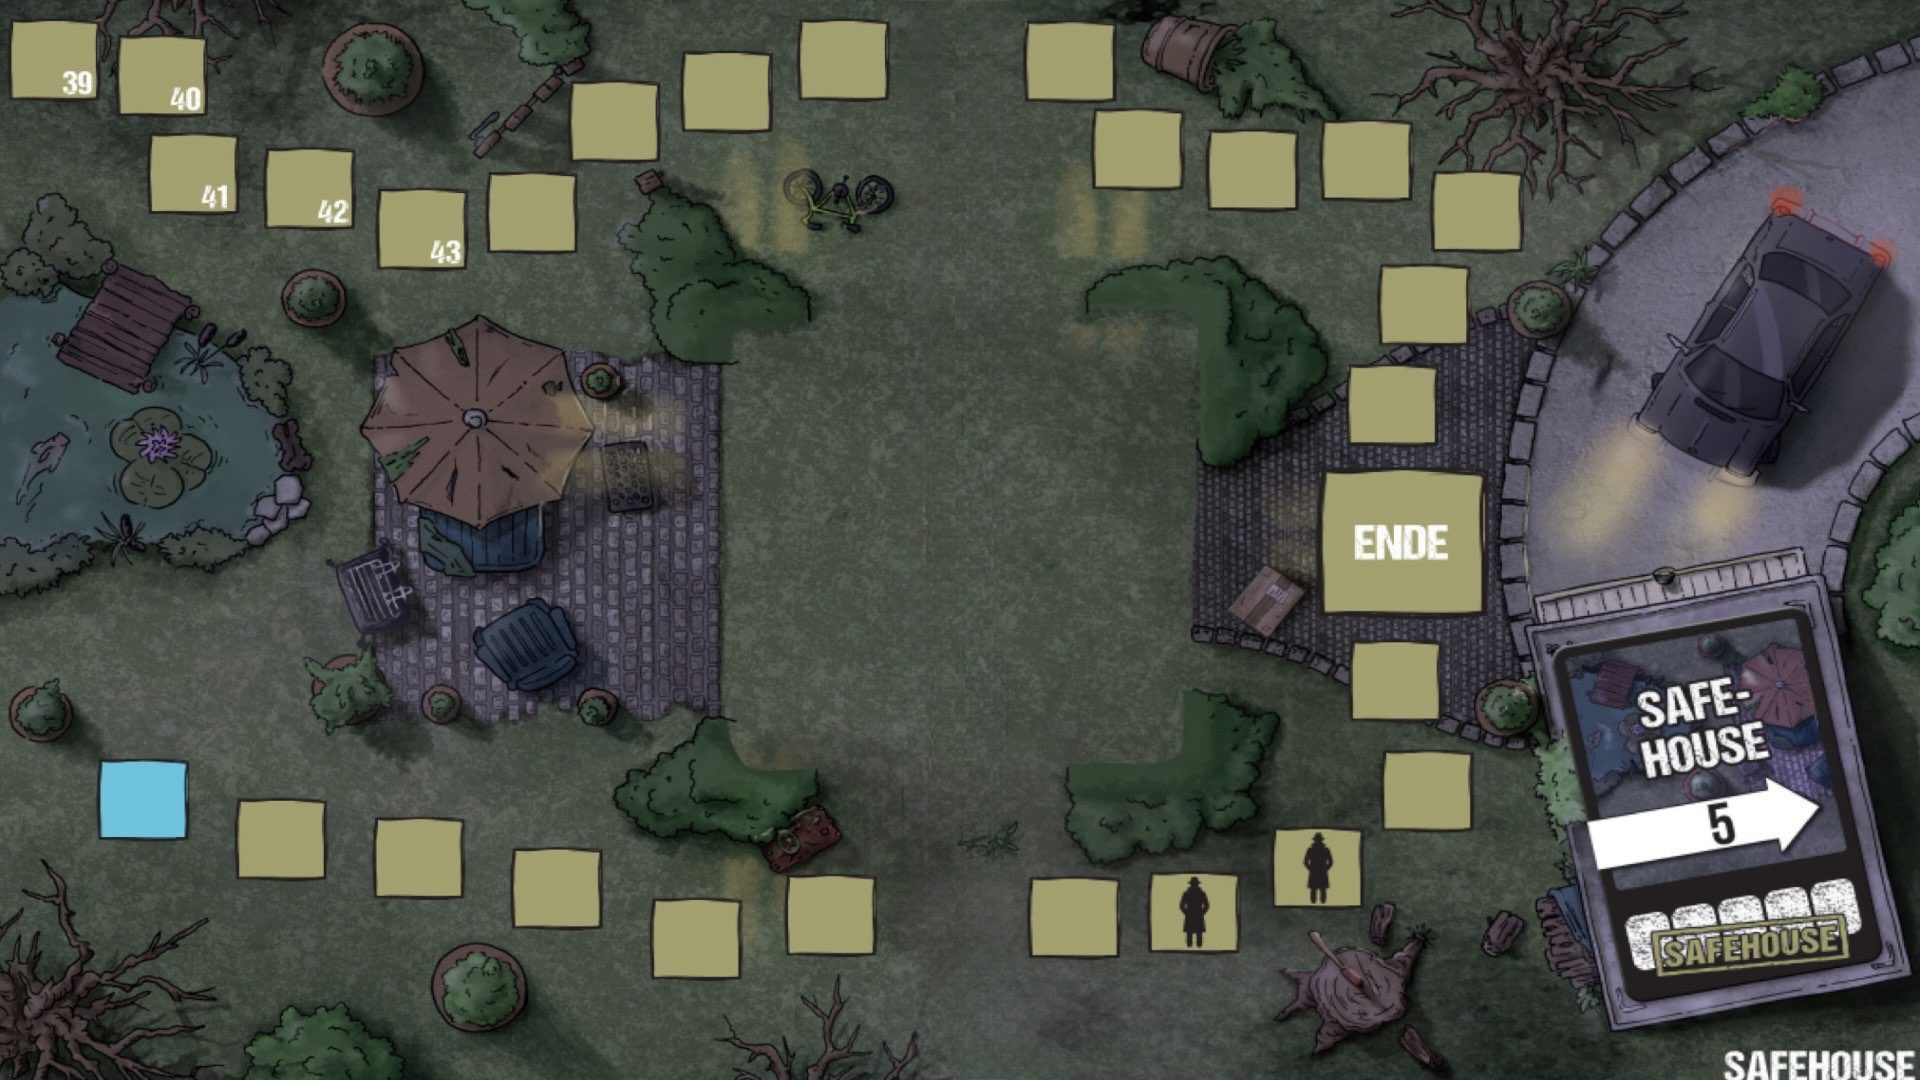
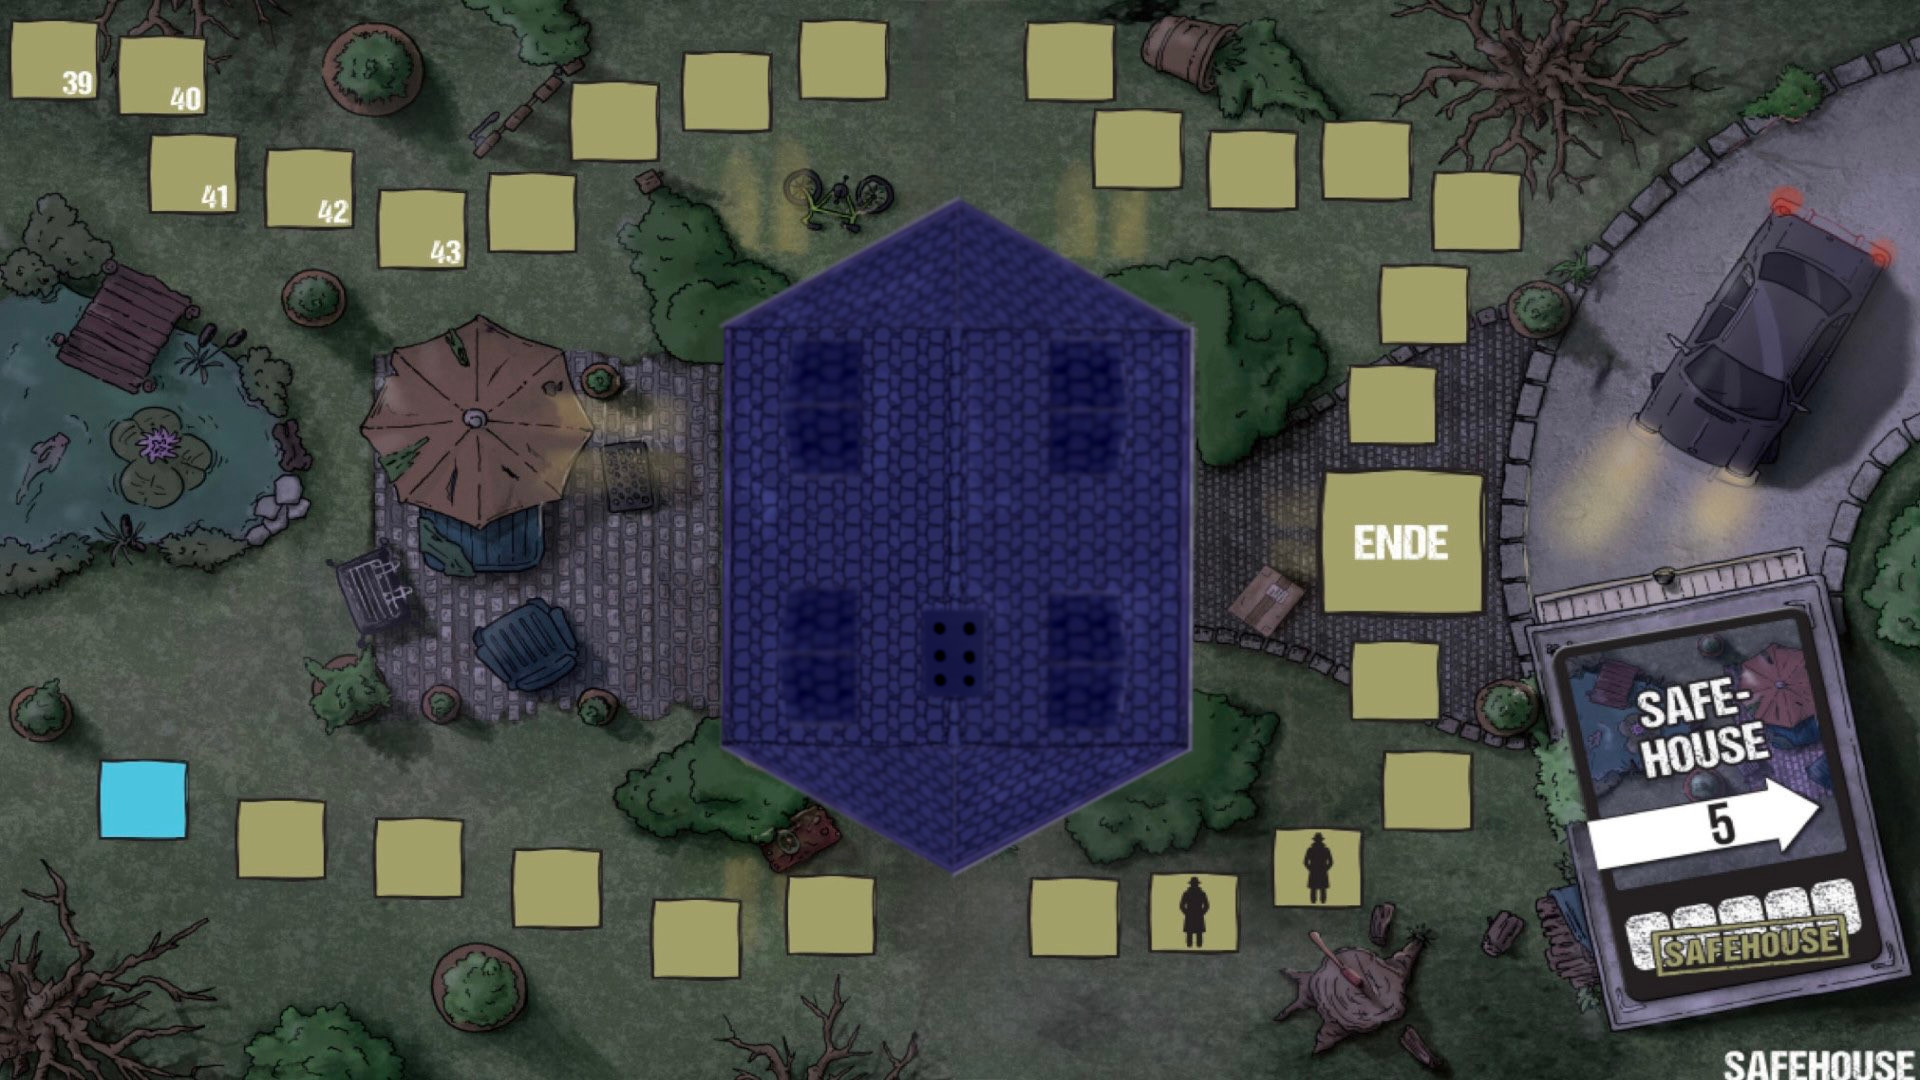
Finale Bilder eingefügt Einpaar problem (Von Tom) gefixxt
Opponent Spawn in den Leveln gemacht

Spieler Start in den Leveln gemacht.

Changed region(s): [[0.375, 0.1833, 0.625, 0.825], [0.0312, 0.7028, 0.0938, 0.7944]]

diff --git a/WebHouse-Client/GameForm.cs b/WebHouse-Client/GameForm.cs
@@ -27,25 +27,26 @@ public partial class GameForm : Form
             RenderBoard();
         };
         
-        RenderBoard();
-        
         GameLogic.Start(this);
+
+        RenderBoard();
     }
+    
     
     public void RenderBoard()
     {
         if (roomImage == null)
         {
-            //roomImage erstellen
             roomImage = new PictureBox();
-            roomImage.Image = Image.FromStream(
-                Assembly.GetExecutingAssembly().GetManifestResourceStream
-                    ("WebHouse_Client.Resources.Background_Images." + GameLogic.CurrentRoom.Picture));
             roomImage.SizeMode = PictureBoxSizeMode.Zoom;
-            
-            //roomImage zur Form hinzufügen
             Controls.Add(roomImage);
         }
+
+            // Bild immer neu setzen
+            roomImage.Image = Image.FromStream(
+                Assembly.GetExecutingAssembly().GetManifestResourceStream(
+                "WebHouse_Client.Resources.Background_Images." + GameLogic.CurrentRoom.Picture));
+
 
         //Größe auf ein Viertel des Fensters setzen
         var width = GetRelativeSize(ClientSize, true, percentage: 60);
@@ -125,7 +126,7 @@ public partial class GameForm : Form
         //Alte PictureBox entfernen
         if (opponentImage == null)
         {
-            // Neue PictureBox erzeugen
+            //Neue PictureBox erzeugen
             opponentImage = new PictureBox();
             opponentImage.BackColor = Color.Transparent;
             opponentImage.SizeMode = PictureBoxSizeMode.Zoom;
@@ -174,7 +175,7 @@ public partial class GameForm : Form
         opponentMoveButton.Text = "Move Opponent";
         opponentMoveButton.Size = new Size(100, 50);
         opponentMoveButton.Location = new Point(10, 70);
-        opponentMoveButton.Click += (_, _) => GameLogic.MovePlayer(1);
+        opponentMoveButton.Click += (_, _) => GameLogic.MoveOpponent(1);
         Controls.Add(opponentMoveButton);
     }
 
@@ -317,7 +318,6 @@ public partial class GameForm : Form
             new (1390, 270),
             new (1360, 370),
             new (1360, 500),
-
         } },
     };
 }

diff --git a/WebHouse-Client/Logic/GameLogic.cs b/WebHouse-Client/Logic/GameLogic.cs
@@ -10,7 +10,7 @@ public class GameLogic
     private static Timer _opponentTimer;
     private static GameForm _gameForm;
     
-    public static int PlayerPosition = 0;
+    public static int PlayerPosition = 9;
     public static int OpponentPosition = 0;
     public static List<ICard> Inventory = new List<ICard>();
     public static Room CurrentRoom => Rooms[_currentRoom];
@@ -60,6 +60,12 @@ public class GameLogic
             SwitchRoom();
         }
         
+        if (CurrentRoom.OpponentMoveTriggerFields.Contains(PlayerPosition))
+        {
+            MoveOpponent(1);
+        }
+
+        
         _gameForm.UpdatePositions();
     }
     
@@ -75,11 +81,29 @@ public class GameLogic
         
         _gameForm.UpdatePositions();
     }
-    
     public static void SwitchRoom()
     {
         _currentRoom++;
+
+        //Spieler startet immer an StartField des neuen Raumes
+        PlayerPosition = CurrentRoom.StartField;
+
+        //Beispiel Offset: 
+        //Du musst den Offset für das neue Level definieren
+        int levelOffset = -12; // z.B. wenn Level 2 bei visueller Nummer 3 startet (entsprechend anpassen!)
+
+        //Gegner neue Position berechnen
+        int newOpponentPosition = levelOffset + OpponentPosition;
+
+        //Absichern: Wenn neue Position außerhalb liegt, korrigieren
+        if (newOpponentPosition < 0) newOpponentPosition = 0;
+        if (newOpponentPosition >= CurrentRoom.Steps) newOpponentPosition = CurrentRoom.Steps - 1;
+
+        OpponentPosition = newOpponentPosition;
+
         _gameForm.RenderBoard();
-        // TODO: Set positions of player and opponent
+        _gameForm.UpdatePositions();
     }
+
+
 }

diff --git a/WebHouse-Client/Logic/Room.cs b/WebHouse-Client/Logic/Room.cs
@@ -25,9 +25,9 @@ public class Room
     {
         RoomName.HotelZimmer => 21,
         RoomName.Hafen => 20,
-        RoomName.Stadt => 15,
-        RoomName.Wald => 20,
-        RoomName.SafeHouse => 25,
+        RoomName.Stadt => 19,
+        RoomName.Wald => 18,
+        RoomName.SafeHouse => 29,
         _ => 0
     };
 
@@ -35,4 +35,26 @@ public class Room
     {
         RoomType = roomType;
     }
+    
+    public List<int> OpponentMoveTriggerFields => RoomType switch
+    {
+        RoomName.HotelZimmer => new List<int> { 10, 13, 18 },
+        RoomName.Hafen => new List<int> { 9, 10, 11 },
+        RoomName.Stadt => new List<int> { 9, 11, 13 },
+        RoomName.Wald => new List<int> { 13 },
+        RoomName.SafeHouse => new List<int> { 9, 19 },
+        _ => new List<int>()
+    };
+    
+    public int StartField => RoomType switch
+    {
+        RoomName.HotelZimmer => 9,
+        RoomName.Hafen => 8,
+        RoomName.Stadt => 7,
+        RoomName.Wald => 6,
+        RoomName.SafeHouse => 0,
+        _ => 9
+    };
+
+
 }
